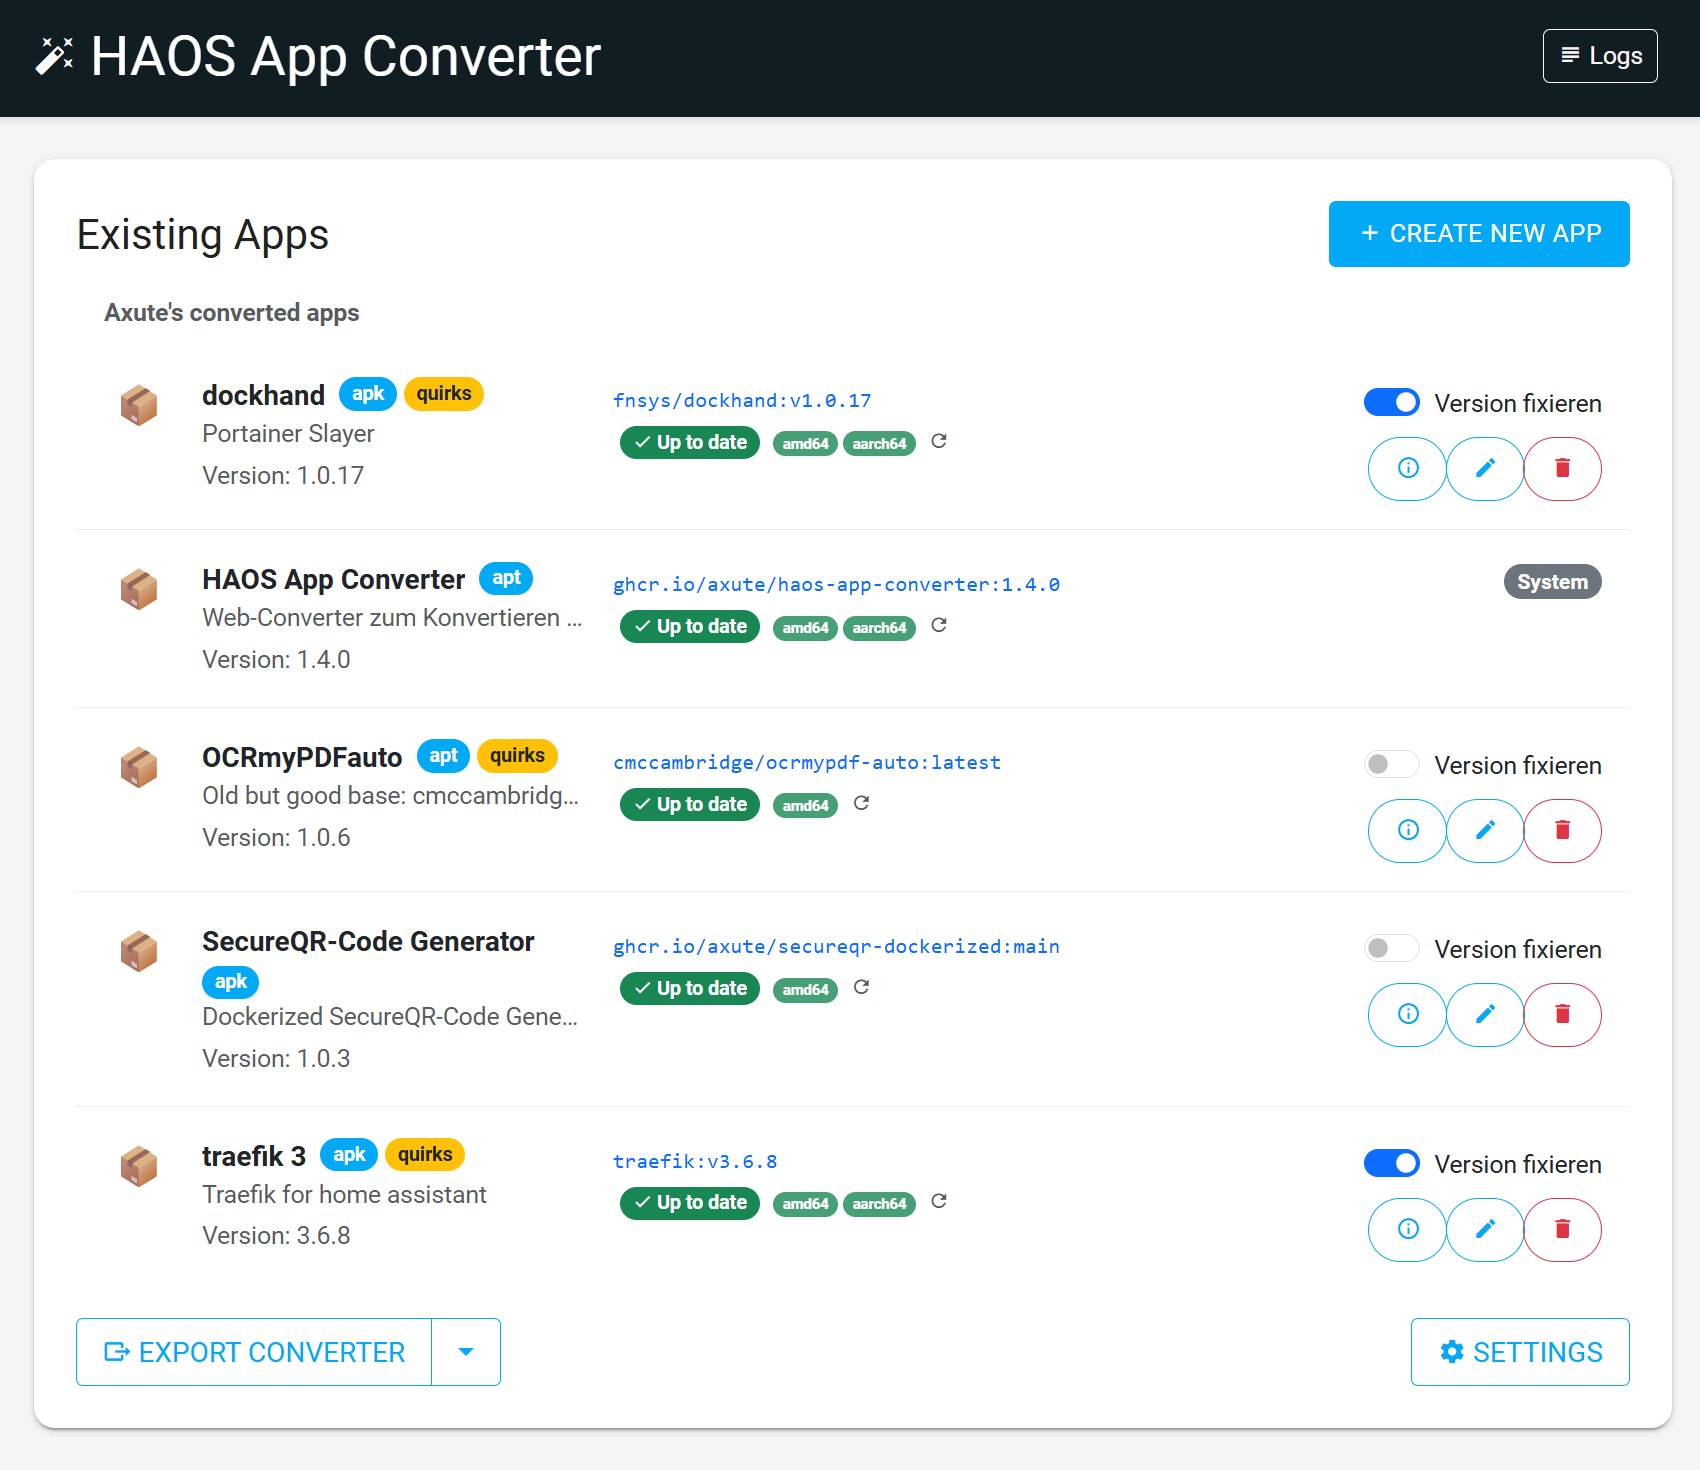
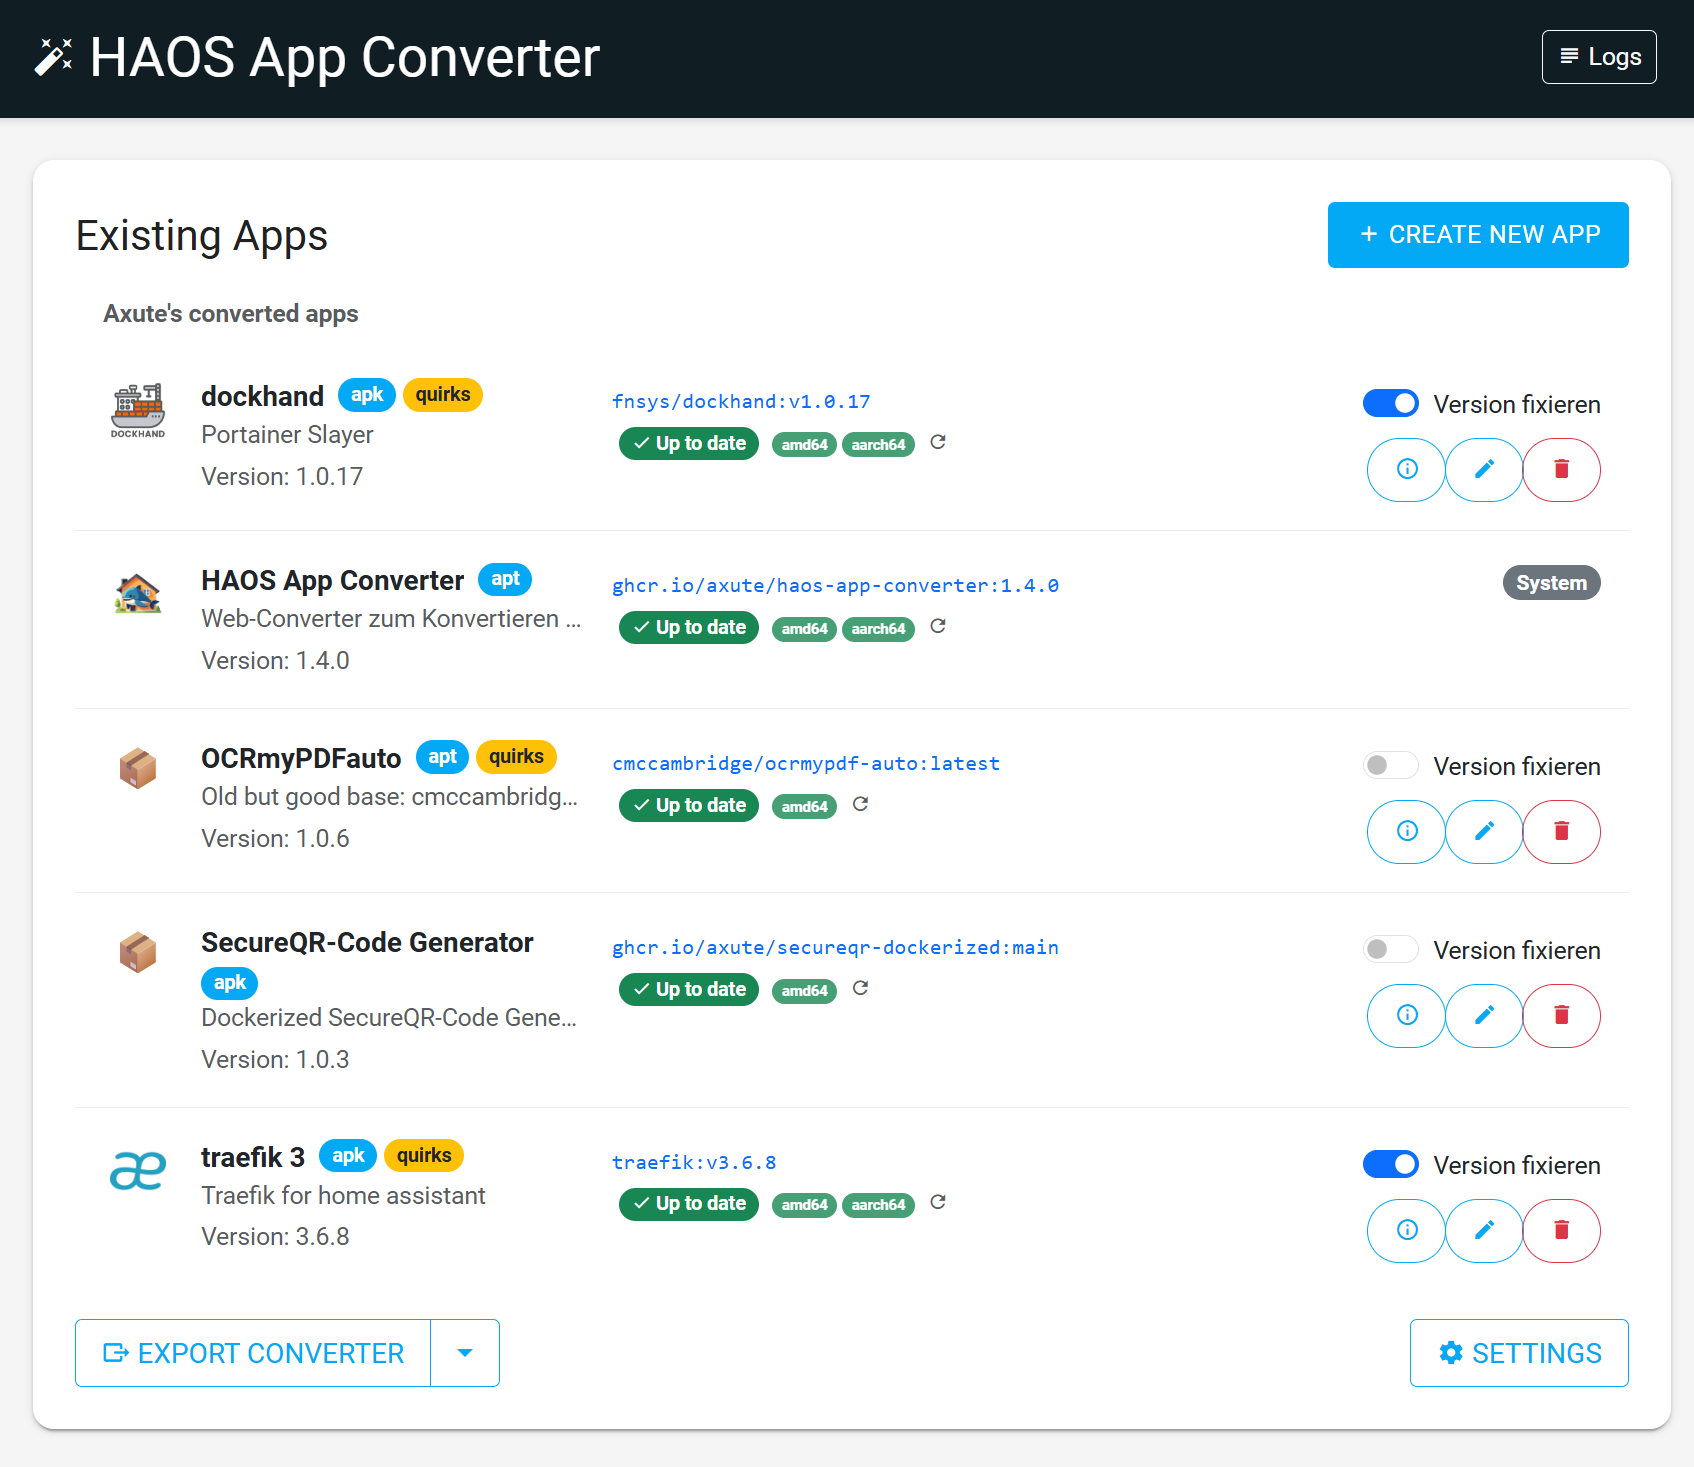
feat: add `has_local_icon` property to `IconPng` serialization and update screenshot asset

diff --git a/src/File/App/IconPng.php b/src/File/App/IconPng.php
@@ -27,7 +27,8 @@ class IconPng extends FileAbstract
     public function jsonSerialize(): array
     {
         return [
-            'icon_file' => $this->icon_file
+            'icon_file'      => $this->icon_file,
+            'has_local_icon' => $this->isFile()
         ];
     }
 
